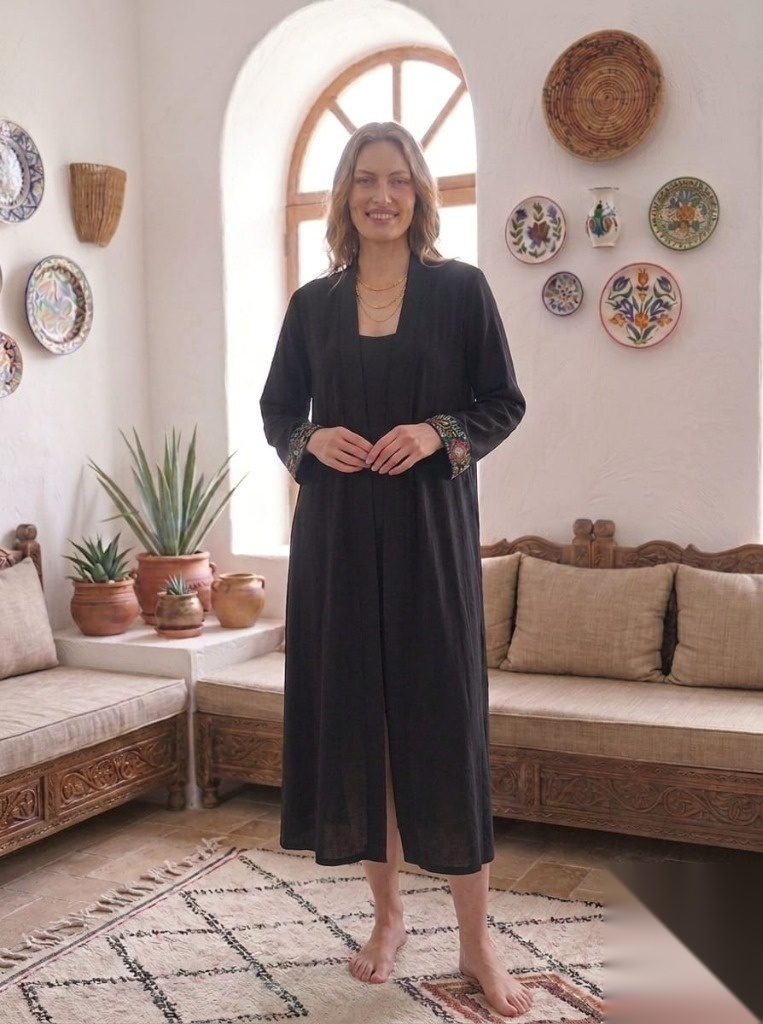
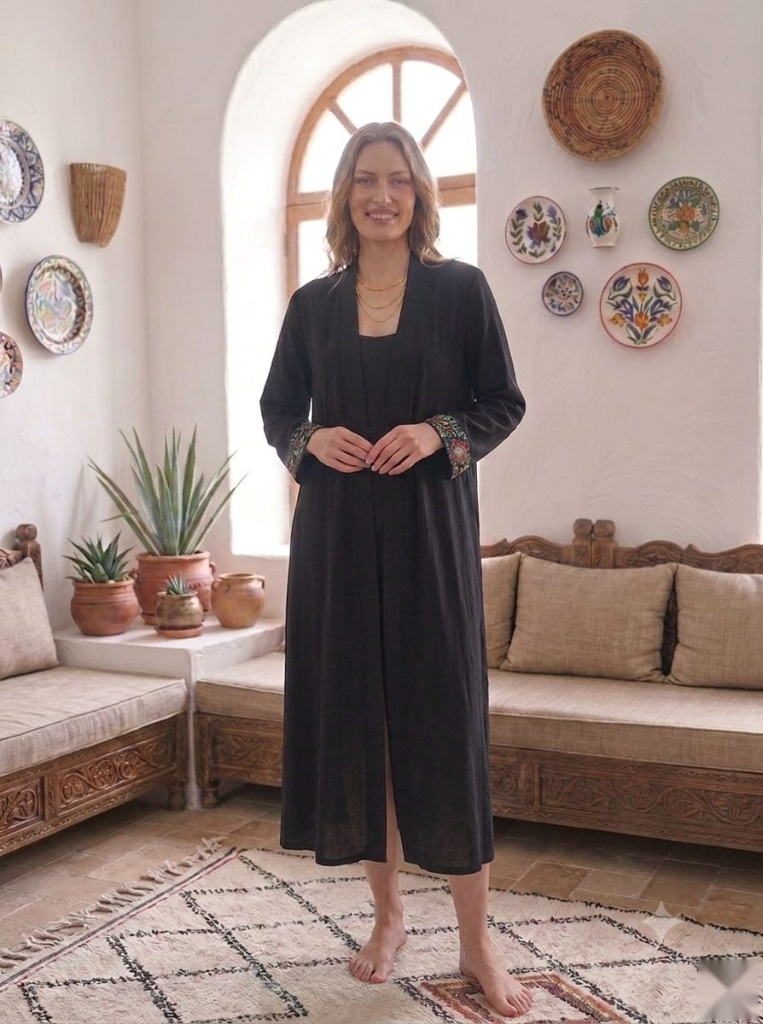
Fotograf koselerindeki bugulanma giderildi (8 statik fotograf)
Teshis: Sitede gorsellere uygulanan CSS efekti yok; bugu dosyalarin icinde.
Gecmiste sag alt kosedeki yapay zeka araci filigranini silmek icin o bolgeye
bulaniklik/doldurma uygulanmis; sonuc filigrandan cok daha gorunur ~160x160
piksellik bir leke olmus. Olcumde her dosyada degisen bolge ayni yerde cikti.

- green_kaftan_1-4, black_peacock_1-2, teal_peacock_1-2 ilk committeki (f1fc7b7)
  lekesiz halleriyle geri yuklendi; kose keskinligi geri geldi
- scripts/kose-bulaniklik-olc.py: kose bulanikligini olcen arac eklendi
- PROJECT.md: teshis, yapilanlar ve kalan isler yazildi

Kalan: Panelden yuklenen (Storage) fotograflarda ayni leke var, ozellikle
"Ev Renovasyon" urununde; lekesiz kopyalari gecmiste yok, panelden yeniden
yuklenmeleri gerekiyor. Geri yuklenen dosyalarda aracin kucuk yildiz isareti
gorunur durumda; bilerek silinmedi.

Changed region(s): [[0.7837, 0.8438, 1.0, 1.0]]

diff --git a/scripts/kose-bulaniklik-olc.py b/scripts/kose-bulaniklik-olc.py
@@ -1,0 +1,62 @@
+# -*- coding: utf-8 -*-
+"""Köşelerdeki buğulanmayı ölçer.
+
+Her görselin 4 köşesindeki kare parçanın "keskinlik" değerini (Laplacian varyansı)
+merkez bölgenin keskinliğiyle karşılaştırır. Köşe/merkez oranı düşükse o köşeye
+bulanıklık uygulanmış demektir.
+"""
+import sys
+import glob
+import numpy as np
+from PIL import Image
+
+
+def keskinlik(dizi: np.ndarray) -> float:
+    """Basit Laplacian varyansı: yüksek = keskin, düşük = bulanık."""
+    lap = (
+        -4 * dizi[1:-1, 1:-1]
+        + dizi[:-2, 1:-1]
+        + dizi[2:, 1:-1]
+        + dizi[1:-1, :-2]
+        + dizi[1:-1, 2:]
+    )
+    return float(lap.var())
+
+
+def incele(yol: str, oran: float = 0.18):
+    im = Image.open(yol).convert("L")
+    a = np.asarray(im, dtype=np.float32)
+    h, w = a.shape
+    k = int(min(h, w) * oran)
+    koseler = {
+        "sol-ust": a[0:k, 0:k],
+        "sag-ust": a[0:k, w - k:w],
+        "sol-alt": a[h - k:h, 0:k],
+        "sag-alt": a[h - k:h, w - k:w],
+    }
+    merkez = a[h // 2 - k // 2: h // 2 + k // 2, w // 2 - k // 2: w // 2 + k // 2]
+    m = keskinlik(merkez)
+    sonuc = {ad: keskinlik(p) for ad, p in koseler.items()}
+    return w, h, m, sonuc
+
+
+def main(yollar):
+    print(f"{'dosya':<34}{'olcu':>11}{'merkez':>9}   kose/merkez orani (dusuk = bugulu)")
+    print("-" * 104)
+    for yol in yollar:
+        try:
+            w, h, m, koseler = incele(yol)
+        except Exception as e:  # noqa: BLE001
+            print(f"{yol:<34} HATA: {e}")
+            continue
+        ad = yol.replace("\\", "/").split("/")[-1]
+        oranlar = {k: (v / m if m else 0) for k, v in koseler.items()}
+        en_dusuk = min(oranlar.values())
+        isaret = "  <-- BUGULU KOSE" if en_dusuk < 0.35 else ""
+        detay = "  ".join(f"{k}:{v:5.2f}" for k, v in oranlar.items())
+        print(f"{ad:<34}{w:>5}x{h:<5}{m:>9.0f}   {detay}{isaret}")
+
+
+if __name__ == "__main__":
+    yollar = sys.argv[1:] or sorted(glob.glob("public/images/products/*.jpg"))
+    main(yollar)

diff --git a/PROJECT.md b/PROJECT.md
@@ -498,6 +498,31 @@ açıldı; yeni giriş ekranında hatalı giriş Türkçe hata verdi.
 boş görünebiliyor (`requestAnimationFrame` 0 kare). Bu bir kod hatası değil; doğrulamalar
 DOM ve ağ üzerinden yapıldı.
 
+### 2026-10-03 — Fotoğraf köşelerindeki buğulanma giderildi
+
+**Şikâyet:** Bazı ürün fotoğraflarının köşelerinde buğulanma/leke var.
+
+**Teşhis:** Sitede görsellere uygulanan bir CSS efekti YOK (yalnızca hafif doygunluk ve
+vitrin kartlarında alt gradyan). Buğu dosyaların içine işlenmiş. Geçmişte (bu çalışmadan önce)
+fotoğrafların sağ alt köşesindeki yapay zekâ aracı filigranını (küçük yıldız) silmek için
+o bölgeye bulanıklık/doldurma uygulanmış. Sonuç, filigrandan çok daha göze batan ~160×160
+piksellik bir leke olmuş. Ölçüm: her dosyada değişen bölge aynı yerde, sağ alt köşede.
+
+**Yapılan:** 8 statik fotoğraf (green_kaftan_1-4, black_peacock_1-2, teal_peacock_1-2)
+ilk committeki (f1fc7b7) lekesiz hâlleriyle geri yüklendi. Sağ alt köşe keskinliği geri geldi
+(ör. black_peacock_2 köşe/merkez oranı 0.02 → 3.52).
+
+**Not 1:** Geri yüklenen dosyalarda aracın küçük yıldız işareti yine görünür durumda.
+Bilerek silinmedi; bu bir kaynak/üretim işareti ve silinmesi kullanıcının kararı.
+**Not 2:** Panelden yüklenen (Storage) fotoğraflarda da aynı leke var — özellikle
+"Ev Renovasyon" ürününün fotoğrafları. Bunların lekesiz kopyası depoda/geçmişte yok;
+çözüm, yeni panelden (artık hiçbir efekt uygulamıyor) yeniden yüklemek.
+**Not 3:** teal_peacock_1 için geçmişte iki farklı sürüm vardı; c3c891f sürümü yanlış
+fotoğraf (çerçeveli tablo). Doğrusu ilk committeki kaftan fotoğrafı.
+
+Ölçüm aracı kalıcı hale getirildi: `python scripts/kose-bulaniklik-olc.py` (parametresiz
+çalıştırılınca public/images/products altındaki tüm fotoğrafları ölçer).
+
 ---
 
 ## 9. Alınan kararlar
@@ -523,6 +548,7 @@ DOM ve ağ üzerinden yapıldı.
 | 2026-09-16 | Depodan API ile dosya silinemez | Silinen ürün çöp kutusundan geri geldiğinde fotoğrafı da yerinde olsun |
 | 2026-09-16 | Çeviri yalnızca yönetici oturumuyla çağrılabilir | Herkese açık uç noktada başkaları OpenRouter kredisini harcayabilirdi |
 | 2026-09-16 | Yönetici listesi ve çeviri sözlüğü shared/ klasöründe tek kaynak | Tarayıcı ve sunucu aynı listeyi kullansın |
+| 2026-10-03 | Filigran silme amaçlı bulanıklaştırma yapılmayacak | Lekesi filigrandan daha kötü; işaretin kalıp kalmayacağı kullanıcının kararı |
 
 ---
 
